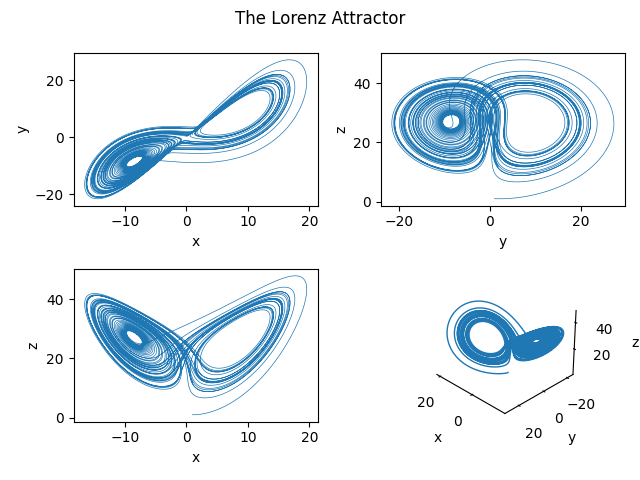
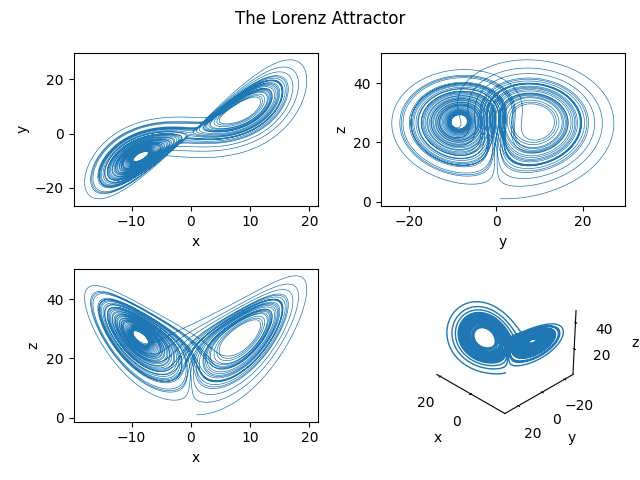
Increasing precision of Python Lorenz solution.

diff --git a/lorenz/lorenz.py b/lorenz/lorenz.py
@@ -67,7 +67,7 @@ def rhs(T, X):
 # method used by the solver, as well as a variety of keyword arguments to tune
 # the behavior of the solver.
 
-sol = solve_ivp(rhs, (ti, tf), [x0, y0, z0], method="RK45", rtol=0.000001)
+sol = solve_ivp(rhs, (ti, tf), [x0, y0, z0], method="RK45", rtol=0.0000001)
 T = sol.t # get time attribute from solution object
 X = sol.y # get state variable attribute from solution object
 
